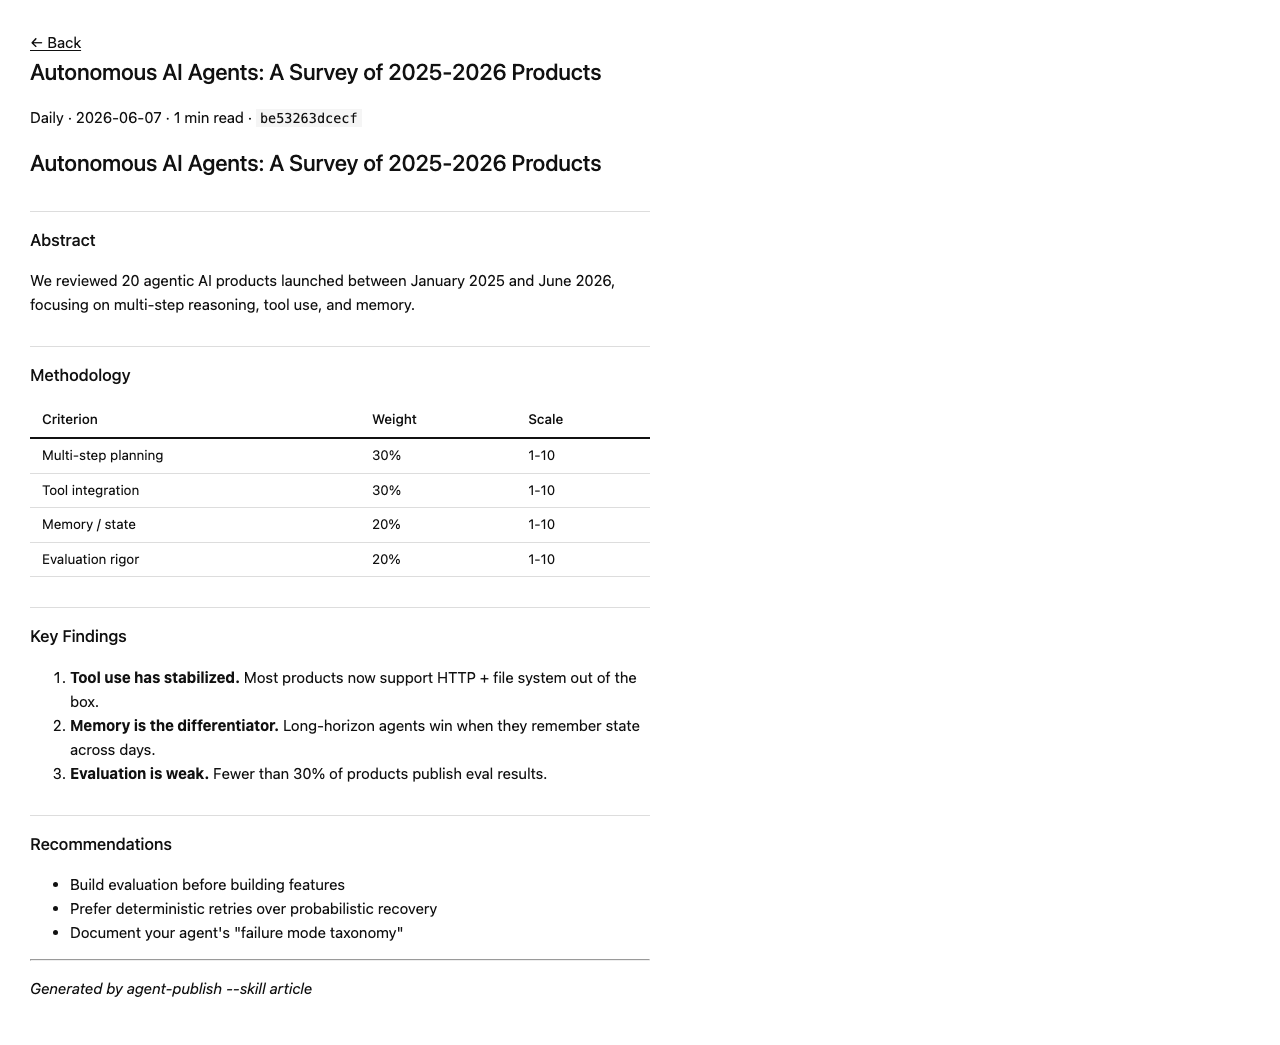
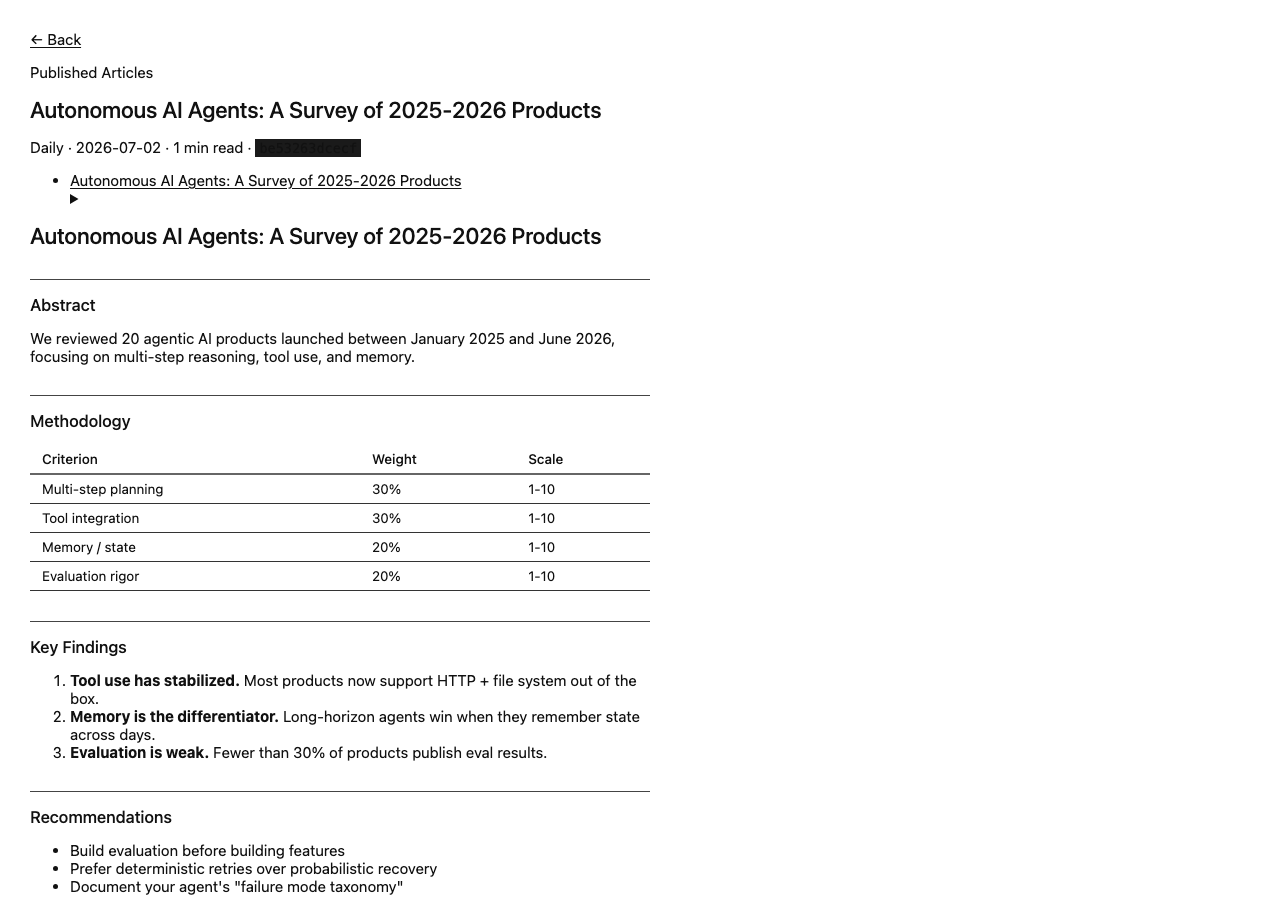
fix: default theme base.css bugs — broken line-height, wrong h3 color, missing meta styles
The DESIGN.md-based default theme had several CSS bugs in base.css that
diverged from both the DESIGN.md spec and the hardcoded DEFAULT_CSS fallback:
- body line-height referenced undefined var(--leading-base) instead of 1.7
- h3 used var(--color-fg) instead of var(--color-muted), breaking heading hierarchy
- .meta had letter-spacing:.01em instead of .06em and was missing text-transform:uppercase
- table had border-radius:6px which the DESIGN.md explicitly forbids (WebKit bug)
- dark mode h2 overrode border-top-color but h2 uses border-left

Updated README screenshots to reflect the fixed rendering.

Changed region(s): [[0.0, 0.2178, 0.5, 0.9956], [0.0, 0.0311, 0.4688, 0.2178]]

diff --git a/src/agent_publish/design_themes/default/base.css b/src/agent_publish/design_themes/default/base.css
@@ -1,6 +1,6 @@
 *{box-sizing:border-box}
 html{font-size:16px;scroll-behavior:smooth}
-body{font-family:var(--font-family-sans);line-height:var(--leading-base);color:var(--color-fg);background:var(--color-bg);margin:0;padding:0;-webkit-font-smoothing:antialiased}
+body{font-family:var(--font-family-sans);line-height:1.7;color:var(--color-fg);background:var(--color-bg);margin:0;padding:0;-webkit-font-smoothing:antialiased}
 a{color:var(--color-accent);text-decoration:none;border-bottom:1px solid transparent;transition:border-color .15s,color .15s}
 a:hover{border-bottom-color:var(--color-accent)}
 a:focus-visible{outline:2px solid var(--color-accent);outline-offset:2px;border-bottom-color:transparent}
@@ -14,12 +14,12 @@ header{padding-bottom:.5rem}
 .main{padding-top:0}
 h1{font-family:var(--font-family-display);font-size:2rem;font-weight:700;line-height:1.2;letter-spacing:-0.025em;margin:0 0 .25rem;color:var(--color-fg)}
 h2{font-size:1.3rem;font-weight:600;margin:2.5rem 0 1rem;padding-left:.65rem;border-left:3px solid var(--color-accent);color:var(--color-fg);position:relative}
-h3{font-size:1rem;font-weight:600;margin:1.5rem 0 .5rem;color:var(--color-fg);position:relative}
+h3{font-size:1rem;font-weight:600;margin:1.5rem 0 .5rem;color:var(--color-muted);position:relative}
 h2 a.anchor,h3 a.anchor{opacity:0;position:absolute;left:-1.2em;top:.15em;font-size:.85em;text-decoration:none;border-bottom:0;transition:opacity .15s}
 h2:hover a.anchor,h3:hover a.anchor{opacity:1}
 p{margin:0 0 1.125rem}
-.meta{font-size:.8125rem;color:var(--color-muted);margin-top:.5rem;letter-spacing:.01em}
-table{width:100%;border-collapse:collapse;font-size:.875rem;margin:1.25rem 0;background:var(--color-surface);border-radius:6px;overflow:hidden}
+.meta{font-size:.8125rem;color:var(--color-muted);margin-top:.5rem;letter-spacing:.06em;text-transform:uppercase}
+table{width:100%;border-collapse:collapse;font-size:.875rem;margin:1.25rem 0;background:var(--color-surface)}
 tr{transition:background .12s}
 tr:hover{background:rgba(0,119,182,.06)}
 th,td{text-align:left;padding:.6rem .9rem;border-bottom:1px solid var(--color-border)}
@@ -70,7 +70,7 @@ pre code{background:none;padding:0;font-size:inherit}
   :root{--color-bg:#1a1816;--color-fg:#e8e4df;--color-muted:#9e9891;--color-accent:#4fb3d9;--color-accent-2:#7bcfe8;--color-border:#2e2a26;--color-surface:#22201d;--color-code-bg:#1f1d1a}
   body{background:var(--color-bg);color:var(--color-fg)}
   a{color:var(--color-accent)}
-  h2{border-top-color:var(--color-accent)}
+  h2{border-left-color:var(--color-accent)}
   table{background:var(--color-surface)}
   thead th{background:#2a2724}
   tr:hover{background:rgba(79,179,217,.08)}